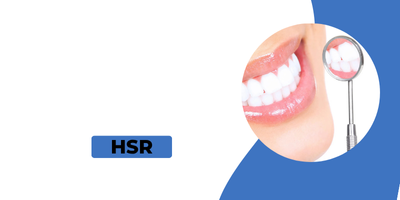
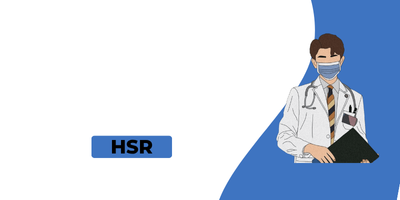
Changed Bundle Identifier from co.median.android.wqwnby to co.median.ios.wqwnby

Changed region(s): [[0.6, 0.09, 0.96, 0.84]]

diff --git a/lib/pages/home_flow/sections_page_widget.dart b/lib/pages/home_flow/sections_page_widget.dart
@@ -155,13 +155,13 @@ class _SectionsPageWidgetState extends State<SectionsPageWidget> {
 
                   _buildGridCard(
                     context: context,
-                    title: 'العيادات لطب الاسنان',
+                    title: 'استشارة طبية ',
                     description: '',
                     imagePath: 'assets/images/clinic.png',
                     onTap: () {
                       Navigator.push(
                         context,
-                        MaterialPageRoute(builder: (context) => const WebViewPage(url: 'https://clinic.beytei.com')),
+                        MaterialPageRoute(builder: (context) => const WebViewPage(url: 'https://tawk.to/chat/6848a65fb0285c1909e28cd2/1itdsjq3f')),
                       );
                     },
                   ),
